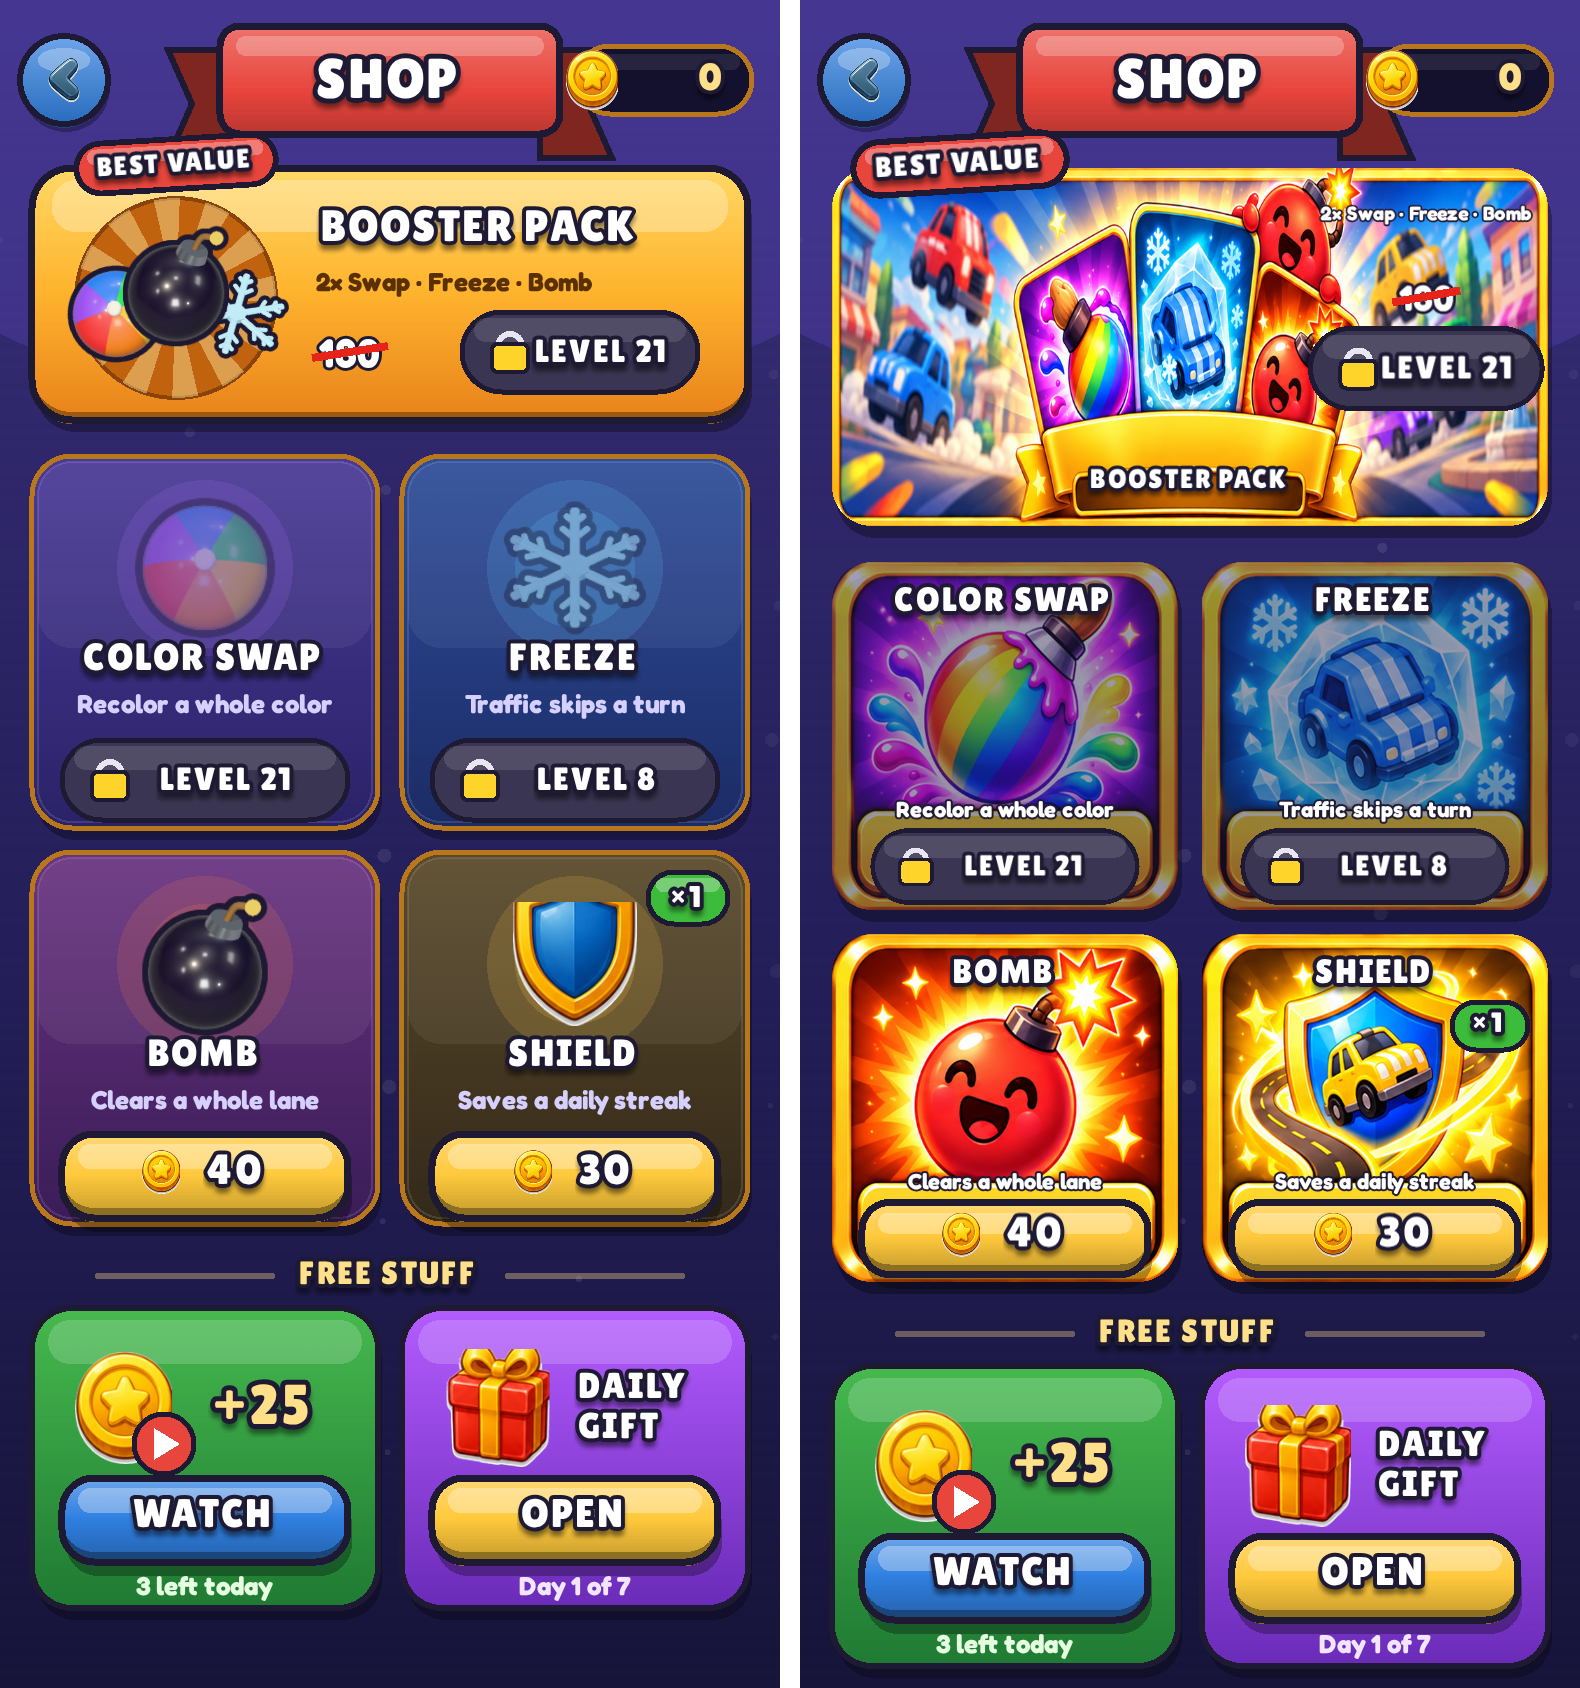
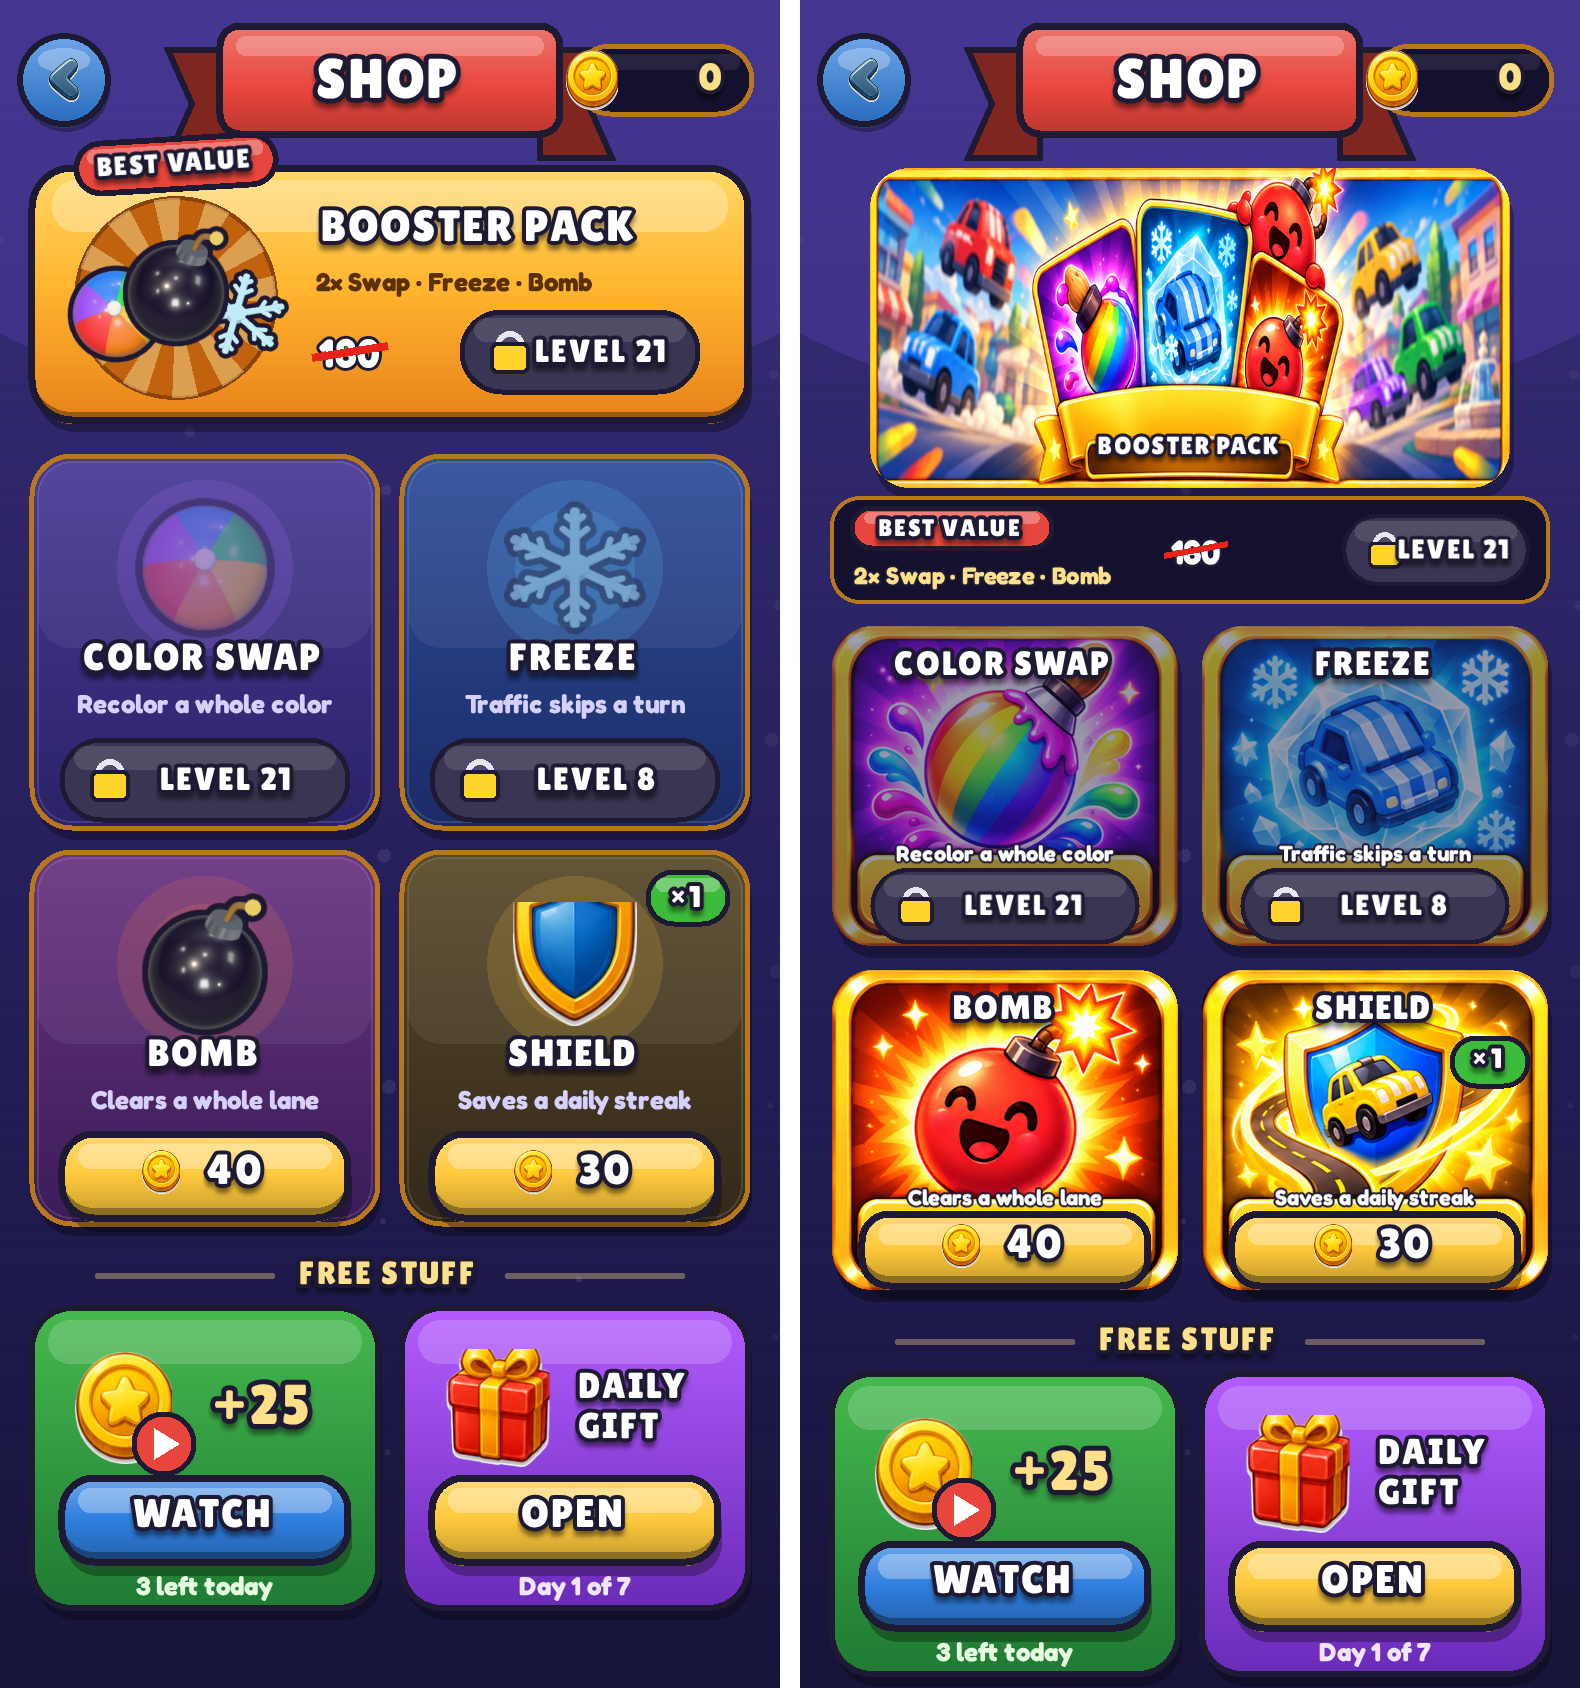
art(shop): pack card UI moves off the art into a bar below; sticker beside button (no overlap, no text over art)

Changed region(s): [[0.5272, 0.0616, 0.9924, 1.0]]

diff --git a/src/screens/ShopScreen.js b/src/screens/ShopScreen.js
@@ -124,11 +124,12 @@ export class ShopScreen {
     // With the baked shop art the pack card keeps the art's 2:1 frame and the tiles go
     // near-square; without it, the original procedural sizes.
     const art = !!Assets.get(SHOP_PACK_URL);
-    const packH = art ? Math.round((w - PAD * 2) / 2) : 126;
+    const packH = art ? 160 : 126;   // art drawn 320x160 (2:1), centred; bar below is full width
     this._buildPack(PAD, 84, w - PAD * 2, packH, inv);
-    const TOP = 84 + packH + 18;
+    // Art: a UI price bar sits BELOW the art (no text over art) — 5px gap + 52px bar.
+    const TOP = 84 + packH + (art ? 5 + 52 + 12 : 18);
 
-    const tileW = (w - PAD * 2 - GAP) / 2, tileH = art ? 174 : 186;
+    const tileW = (w - PAD * 2 - GAP) / 2, tileH = art ? 160 : 186;
     this._tiles = {};
     SHOP_ITEMS.forEach((item, i) => {
       const x = PAD + (i % 2) * (tileW + GAP);
@@ -169,7 +170,7 @@ export class ShopScreen {
   // Hero offer: gold card, rotating rays behind a fan of the three boosters.
   _buildPack(x, y, w, h, inv) {
     const c = this._container;
-    const card = artCard(SHOP_PACK_URL, x, y, w, h);
+    const card = artCard(SHOP_PACK_URL, x + (w - 2 * h) / 2, y, 2 * h, h);
     if (card) { this._buildPackArt(card, x, y, w, h); return; }
     const g = new Graphics();
     g.roundRect(x + 2, y + 6, w, h, 20).fill({ color: 0x000000, alpha: 0.32 });
@@ -215,7 +216,7 @@ export class ShopScreen {
     const title = titleText('BOOSTER PACK', 22);
     title.anchor.set(0, 0.5); title.x = tx; title.y = y + 30;
     c.addChild(title);
-    const sub = bodyText(`${SHOP_PACK.each}× Swap · Freeze · Bomb`, 13, 0x5A3000, { outline: false, weight: '800', align: 'left' });
+    const sub = bodyText(`${SHOP_PACK.each}× Swap · Freeze · Bomb`, 12, 0x5A3000, { outline: false, weight: '800', align: 'left' });
     sub.anchor.set(0, 0.5); sub.x = tx; sub.y = y + 56;
     c.addChild(sub);
 
@@ -255,53 +256,63 @@ export class ShopScreen {
 
   // Art pack: baked hero frame; title sits in the empty ribbon well, the price on the right.
   _buildPackArt(card, x, y, w, h) {
+    // Nadav rule: no UI over art, no UI over UI. Only the ribbon well (bottom centre)
+    // is empty in the art, so BOOSTER PACK goes there; BEST VALUE sits in the bar below the card;
+    // contents line, old price, -% sticker and the buy button sit in a bar below it.
     const c = this._container;
     c.addChild(card.c);
-    const title = fitW(titleText('BOOSTER PACK', 16), w * 0.29);
+    const title = fitW(titleText('BOOSTER PACK', 16), 2 * h * 0.3);
     title.x = x + w / 2; title.y = y + h * 0.875;
     c.addChild(title);
-    const sub = fitW(bodyText(`${SHOP_PACK.each}× Swap · Freeze · Bomb`, 12, 0xFFFFFF, { weight: '800' }), w * 0.3);
-    sub.anchor.set(0.5); sub.x = x + w - w * 0.17; sub.y = y + 22;
-    c.addChild(sub);
 
     const tag = new Container();
     const tg = new Graphics();
-    tg.roundRect(-52, -13, 104, 26, 13).fill(0xE8453C).stroke({ color: INK, width: 3 });
-    tg.roundRect(-46, -10, 92, 8, 4).fill({ color: 0xffffff, alpha: 0.3 });
+    tg.roundRect(-50, -10, 100, 20, 10).fill(0xE8453C).stroke({ color: INK, width: 2.5 });
+    tg.roundRect(-44, -8, 88, 6, 3).fill({ color: 0xffffff, alpha: 0.3 });
     tag.addChild(tg);
-    const tt = titleText('BEST VALUE', 14); tt.anchor.set(0.5); tt.y = 1;
+    const tt = titleText('BEST VALUE', 12); tt.anchor.set(0.5); tt.y = 1;
     tag.addChild(tt);
-    tag.x = x + 64; tag.y = y - 2; tag.rotation = -0.06;
-    c.addChild(tag);
-    this._pulses.push(Object.assign(tag, { speed: 4, amp: 0.04 }));
 
-    const bx = x + w - w * 0.17, by = y + h * 0.56, bw = Math.min(104, w * 0.29);   // above the ribbon wing, clear of it
-    const old = bodyText(String(PACK_FULL), 18, 0xFFFFFF, { weight: '800' });
-    old.anchor.set(0.5); old.x = bx; old.y = by - 36;
+    const barY = y + h + 5, barH = 52, cy = barY + barH / 2;
+    const bar = new Graphics();
+    bar.roundRect(x, barY, w, barH, 14).fill(0x14112F).stroke({ color: GOLD_DEEP, width: 2 });
+    c.addChild(bar);
+    tag.x = x + 10 + 50; tag.y = barY + 15;   // bar, top-left
+    c.addChild(tag);
+
+    const bw = 100, bx = x + w - 6 - bw / 2;                 // button, right
+    const sx = bx - bw / 2 - 8 - 20;                         // sticker, left of button (r 20)
+    const old = bodyText(String(PACK_FULL), 17, 0xFFFFFF, { weight: '800' });
+    old.anchor.set(1, 0.5); old.x = sx - 20 - 8; old.y = cy;  // old price, left of sticker
     c.addChild(old);
     const strike = new Graphics();
-    strike.moveTo(bx - old.width / 2 - 2, by - 33).lineTo(bx + old.width / 2 + 2, by - 39).stroke({ color: 0xE8231A, width: 4 });
+    strike.moveTo(old.x - old.width - 2, cy + 3).lineTo(old.x + 2, cy - 3).stroke({ color: 0xE8231A, width: 3 });
     c.addChild(strike);
+    const subMax = old.x - old.width - 8 - (x + 10);
+    const sub = fitW(bodyText(`${SHOP_PACK.each}× Swap · Freeze · Bomb`, 12, 0xFFE08A, { weight: '800' }), subMax);
+    sub.anchor.set(0, 0.5); sub.x = x + 10; sub.y = barY + 38;
+    c.addChild(sub);
+
     const save = Math.round((1 - SHOP_PACK.cost / PACK_FULL) * 100);
     const burst = new Container();
     const bg = new Graphics();
     const pts = [];
-    for (let i = 0; i < 24; i++) { const r = i % 2 ? 19 : 24, a = (i / 24) * Math.PI * 2; pts.push(Math.cos(a) * r, Math.sin(a) * r); }
-    bg.poly(pts).fill(0xE8453C).stroke({ color: INK, width: 3 });
+    for (let i = 0; i < 24; i++) { const r = i % 2 ? 16 : 19, a = (i / 24) * Math.PI * 2; pts.push(Math.cos(a) * r, Math.sin(a) * r); }
+    bg.poly(pts).fill(0xE8453C).stroke({ color: INK, width: 2.5 });
     burst.addChild(bg);
-    const saveTxt = titleText(`-${save}%`, 12); saveTxt.y = 1;
+    const saveTxt = fitW(titleText(`-${save}%`, 12), 30); saveTxt.y = 1;
     burst.addChild(saveTxt);
-    burst.x = x + w - 16; burst.y = by - 30; burst.rotation = 0.22;
-    this._pulses.push(Object.assign(burst, { speed: 3.2, amp: 0.05 }));
+    burst.x = sx; burst.y = cy;
 
     const packLocked = SHOP_PACK.keys.some(k => !boosterUnlocked(k, null, this._progress?.unlockedLevel ?? 1));
     if (packLocked) {
       const last = Math.max(...SHOP_PACK.keys.map(unlockLevelOf));
-      c.addChild(lockPlate(`LEVEL ${last}`, bx, by, bw + 12));
+      const lp = lockPlate(`LEVEL ${last}`, bx, cy, bw + 8);
+      lp.scale.set(0.85); c.addChild(lp);
       burst.visible = false;
     } else {
-      const btn = this._priceButton(SHOP_PACK.cost, bw, 44, () => this._buyPack(btn));
-      btn.x = bx; btn.y = by;
+      const btn = this._priceButton(SHOP_PACK.cost, bw, 34, () => this._buyPack(btn));
+      btn.x = bx; btn.y = cy;
       c.addChild(btn);
     }
     c.addChild(burst);

diff --git a/docs/review/art-gpt-wave1-hf/NOTES.md b/docs/review/art-gpt-wave1-hf/NOTES.md
@@ -10,7 +10,8 @@
 ## Code (visual only)
 - `src/renderer/assetManifest.js`: `SHOP_PACK_URL`, `SHOP_TILE_URLS`, `SHOP_ART_URLS` added to `ALL_SPRITE_URLS` preload (same pattern as BOOSTER_URLS).
 - `src/screens/ShopScreen.js`: shop previously drew the pack + tiles procedurally. When the textures are loaded it now draws the baked art (rounded-mask sprite) and overlays BOOSTER PACK / item name / desc / price button / lock plate in code; falls back to the old procedural cards if a texture is missing. Pack card uses the art's 2:1 frame (358x179); tiles 173x174 (art stretched slightly, as accepted). No prices, economy, purchase or unlock logic changed. Buy "pop" now targets an empty holder (tile art stays still).
-- Pack price button / lock badge sits above the ribbon wing (by = 0.56h) so no UI element overlaps another (Nadav rule, 2026-10-29).
+- Pack card (Nadav rules: no UI over UI, no text over art): art drawn 320x160 centred; only BOOSTER PACK sits on the art, inside the empty ribbon well. BEST VALUE tag, contents line, struck old price, -% sticker (beside, not on, the button) and price button / LEVEL lock plate are in a dark UI bar under the art. Checked locked (`after-shop-390x844.png`) and unlocked (`after-shop-unlocked-390x844.png`, unlock forced only in an uncommitted screenshot harness).
+- KNOWN REMAINING: booster tiles still put name, description and the xN owned chip over the tile art (only the bottom price band is an empty well). Not in this pass's scope.
 - Labels auto-shrink (`fitW`) to their wells, so nothing can overflow.
 
 ## Verification
